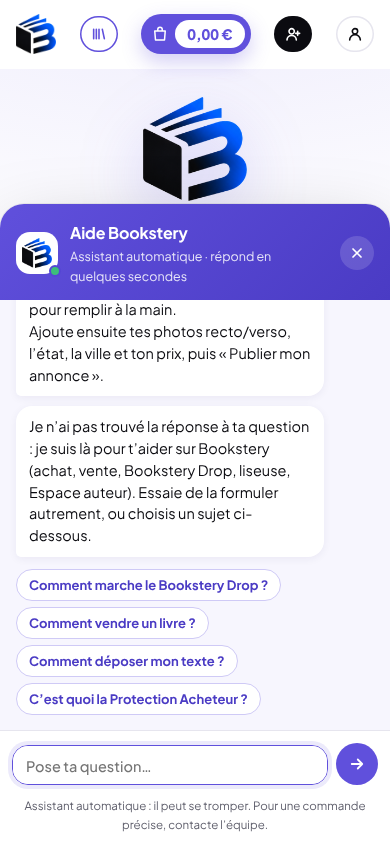
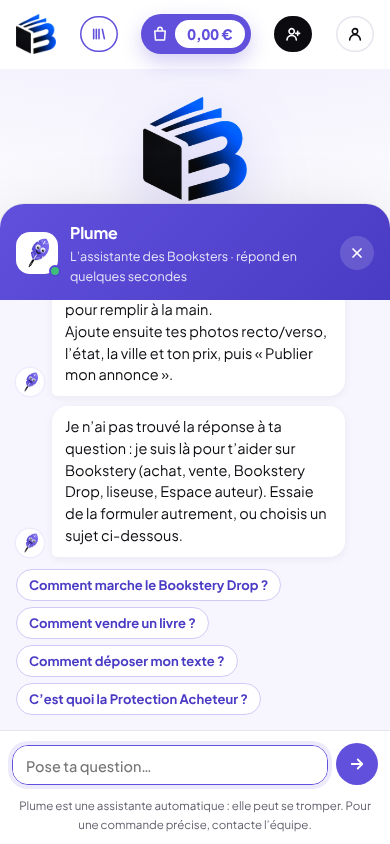
Plume, la mascotte de l'aide (bleu Majorelle, noir, blanc) ; infobulle du panier : Remplir mon panier
Claude-Session: https://claude.ai/code/session_01EPa3evC84KLMU14gb8iTX3

diff --git a/index.html b/index.html
@@ -869,6 +869,28 @@ body.help-hidden .help-fab{opacity:0;pointer-events:none;transform:scale(.8)}
   body.help-open .help-fab{display:none}
 }
 @media print{.help-fab,.help-panel{display:none!important}}
+/* ---------- Plume, la mascotte ---------- */
+.plume{display:block;width:100%;height:100%;overflow:visible}
+.plume .pl-eyes{transform-box:fill-box;transform-origin:center;animation:plBlink 5s infinite}
+@keyframes plBlink{0%,92%,100%{transform:scaleY(1)}95%{transform:scaleY(.1)}}
+.help-fab{background:#fff!important;color:var(--maj)!important;box-shadow:0 14px 30px -8px rgba(96,80,220,.55),0 0 0 3px var(--maj)!important}
+.help-fab:hover{box-shadow:0 18px 36px -8px rgba(96,80,220,.7),0 0 0 3px var(--maj)!important}
+.help-fab .hf-ico{width:46px;height:46px;display:block;animation:plFloat 3.2s ease-in-out infinite}
+.help-fab:hover .hf-ico{animation:plWiggle .6s ease-in-out}
+@keyframes plFloat{0%,100%{transform:translateY(0) rotate(0)}50%{transform:translateY(-3px) rotate(-4deg)}}
+@keyframes plWiggle{0%,100%{transform:rotate(0)}25%{transform:rotate(-12deg)}75%{transform:rotate(10deg)}}
+.help-fab[aria-expanded="true"]{background:var(--maj)!important;color:#fff!important}
+.hp-av{background:#fff}
+.hp-av .plume{width:36px;height:36px}
+.hp-row{display:flex;align-items:flex-end;gap:8px;max-width:92%}
+.hp-row .hp-msg{max-width:none;flex:1;min-width:0}
+.hp-mini{flex:none;width:28px;height:28px;border-radius:50%;background:#fff;box-shadow:0 0 0 1.5px var(--maj-l);display:grid;place-items:center;padding:2px}
+.hp-typing{align-items:center;gap:8px;background:none!important;padding:0!important}
+.hp-ink{display:flex;align-items:center;gap:4px;background:#fff;border-radius:16px;border-bottom-left-radius:5px;padding:10px 13px}
+.hp-ink em{font-style:normal;font-size:12.5px;font-weight:700;color:var(--maj-d);margin-right:4px}
+.hp-mini.writing .plume{animation:plWrite .5s ease-in-out infinite alternate;transform-origin:20% 90%}
+@keyframes plWrite{from{transform:rotate(-8deg) translateX(-1px)}to{transform:rotate(8deg) translateX(1px)}}
+@media(max-width:560px){.help-fab .hf-ico{width:42px;height:42px}}
 @media(prefers-reduced-motion:reduce){*{transition-duration:.01ms!important;animation:none!important;scroll-behavior:auto!important}}
 </style>
 </head>
@@ -882,7 +904,7 @@ body.help-hidden .help-fab{opacity:0;pointer-events:none;transform:scale(.8)}
         <svg width="16" height="16" viewBox="0 0 24 24" fill="none" stroke="currentColor" stroke-width="2.4" stroke-linecap="round" stroke-linejoin="round" aria-hidden="true"><path d="M4 5v14M8 5v14M12 5v14M17 5l3 14"/></svg>
         <span class="sell-txt">Vendre un livre</span>
       </button>
-      <button class="bagbtn tip" id="bagBtn" type="button" data-tip="Remplir mon Bookster Bag" aria-label="Ouvrir mon Bookster Bag, vide, 0,00 €">
+      <button class="bagbtn tip" id="bagBtn" type="button" data-tip="Remplir mon panier" aria-label="Ouvrir mon Bookster Bag, vide, 0,00 €">
         <svg width="18" height="18" viewBox="0 0 24 24" fill="none" stroke="currentColor" stroke-width="2" stroke-linejoin="round" aria-hidden="true"><path d="M5 8h14l-1 12H6L5 8Z"/><path d="M9 8V6a3 3 0 0 1 6 0v2"/></svg>
         <span class="lbl">Bookster Bag</span>
         <span class="amt" id="bagAmt">0,00&nbsp;€</span>
@@ -1399,15 +1421,15 @@ body.help-hidden .help-fab{opacity:0;pointer-events:none;transform:scale(.8)}
 <div class="toast" id="toast" role="status"></div>
 
 <!-- Assistant d'aide -->
-<button class="help-fab" type="button" id="helpFab" data-aide aria-label="Aide Bookstery : poser une question" aria-expanded="false" aria-controls="helpPanel">
-  <svg class="hf-ico" width="26" height="26" viewBox="0 0 24 24" fill="none" stroke="currentColor" stroke-width="2.1" stroke-linecap="round" stroke-linejoin="round" aria-hidden="true"><path d="M21 12a8.5 8.5 0 0 1-12.6 7.4L3 21l1.6-5.1A8.5 8.5 0 1 1 21 12Z"/><path d="M9.6 9.6a2.5 2.5 0 0 1 4.8.9c0 1.6-2.4 2-2.4 3.5"/><path d="M12 17h.01"/></svg>
+<button class="help-fab" type="button" id="helpFab" data-aide aria-label="Plume, l’assistante des Booksters : poser une question" aria-expanded="false" aria-controls="helpPanel">
+  <span class="hf-ico"><svg class="plume" viewBox="0 0 64 64" xmlns="http://www.w3.org/2000/svg" aria-hidden="true">  <defs><linearGradient id="pgFab" x1="0" y1="1" x2="0.6" y2="0"><stop offset="0" stop-color="#4536C0"/><stop offset="1" stop-color="#7D6EF2"/></linearGradient></defs>  <g class="pl-body" transform="rotate(32 32 34)">    <path d="M32 2C45 8 49 20 45 32L41.5 31.5L43.5 35C40 41 36 44.5 32 46C28 44.5 24 41 21 36.5L23.5 33.5L19.5 32C17.5 25 18 19 20.5 14L23 15.5L22 11.5C24.5 7.5 28 4.5 32 2Z" fill="url(#pgFab)"/>    <path d="M45 33L41.5 32.5L43.5 36C40 42 36 45.5 32 47" fill="none" stroke="#0B0B10" stroke-opacity=".16" stroke-width="1.4" stroke-linejoin="round"/>    <path d="M32 7v6M32 36v11" stroke="#fff" stroke-width="1.7" stroke-linecap="round" stroke-opacity=".9"/>    <path d="M34.5 40.5l4.5-3.5M29.5 40.5L25 37M34.5 10.5l3.5-2M29.5 10.5L26 8.5" fill="none" stroke="#fff" stroke-width="1.2" stroke-linecap="round" stroke-opacity=".45"/>    <g class="pl-eyes">      <circle cx="27" cy="22.5" r="4.4" fill="#fff"/><circle cx="37" cy="22.5" r="4.4" fill="#fff"/>      <circle cx="27.8" cy="23.2" r="2.3" fill="#0B0B10"/><circle cx="37.8" cy="23.2" r="2.3" fill="#0B0B10"/>      <circle cx="28.6" cy="22.3" r=".8" fill="#fff"/><circle cx="38.6" cy="22.3" r=".8" fill="#fff"/>    </g>    <path d="M28.2 29.6c2.2 2.2 5.4 2.2 7.6 0" fill="none" stroke="#0B0B10" stroke-width="2" stroke-linecap="round"/>    <path d="M32 47v9.5" stroke="#0B0B10" stroke-width="3.6" stroke-linecap="round"/>    <path d="M32 56.5l-1.4 4.3h2.8z" fill="#0B0B10"/>    <path d="M32 52.5v3.2" stroke="#fff" stroke-width=".9" stroke-linecap="round" stroke-opacity=".8"/>  </g></svg></span>
   <svg class="hf-x" width="22" height="22" viewBox="0 0 24 24" fill="none" stroke="currentColor" stroke-width="2.6" stroke-linecap="round" aria-hidden="true"><path d="M6 6l12 12M18 6 6 18"/></svg>
-  <span class="hf-tip" aria-hidden="true">Besoin d’aide&nbsp;?</span>
+  <span class="hf-tip" aria-hidden="true">Besoin d’aide&nbsp;? Demande à Plume&nbsp;!</span>
 </button>
 <section class="help-panel" id="helpPanel" role="dialog" aria-modal="false" aria-labelledby="helpTitle" hidden>
   <div class="hp-head">
-    <span class="hp-av"><img src="mark.png" alt=""><i aria-hidden="true"></i></span>
-    <div class="hp-id"><b id="helpTitle">Aide Bookstery</b><small id="helpSub">Assistant automatique · répond en quelques secondes</small></div>
+    <span class="hp-av"><svg class="plume" viewBox="0 0 64 64" xmlns="http://www.w3.org/2000/svg" aria-hidden="true">  <defs><linearGradient id="pgAv" x1="0" y1="1" x2="0.6" y2="0"><stop offset="0" stop-color="#4536C0"/><stop offset="1" stop-color="#7D6EF2"/></linearGradient></defs>  <g class="pl-body" transform="rotate(32 32 34)">    <path d="M32 2C45 8 49 20 45 32L41.5 31.5L43.5 35C40 41 36 44.5 32 46C28 44.5 24 41 21 36.5L23.5 33.5L19.5 32C17.5 25 18 19 20.5 14L23 15.5L22 11.5C24.5 7.5 28 4.5 32 2Z" fill="url(#pgAv)"/>    <path d="M45 33L41.5 32.5L43.5 36C40 42 36 45.5 32 47" fill="none" stroke="#0B0B10" stroke-opacity=".16" stroke-width="1.4" stroke-linejoin="round"/>    <path d="M32 7v6M32 36v11" stroke="#fff" stroke-width="1.7" stroke-linecap="round" stroke-opacity=".9"/>    <path d="M34.5 40.5l4.5-3.5M29.5 40.5L25 37M34.5 10.5l3.5-2M29.5 10.5L26 8.5" fill="none" stroke="#fff" stroke-width="1.2" stroke-linecap="round" stroke-opacity=".45"/>    <g class="pl-eyes">      <circle cx="27" cy="22.5" r="4.4" fill="#fff"/><circle cx="37" cy="22.5" r="4.4" fill="#fff"/>      <circle cx="27.8" cy="23.2" r="2.3" fill="#0B0B10"/><circle cx="37.8" cy="23.2" r="2.3" fill="#0B0B10"/>      <circle cx="28.6" cy="22.3" r=".8" fill="#fff"/><circle cx="38.6" cy="22.3" r=".8" fill="#fff"/>    </g>    <path d="M28.2 29.6c2.2 2.2 5.4 2.2 7.6 0" fill="none" stroke="#0B0B10" stroke-width="2" stroke-linecap="round"/>    <path d="M32 47v9.5" stroke="#0B0B10" stroke-width="3.6" stroke-linecap="round"/>    <path d="M32 56.5l-1.4 4.3h2.8z" fill="#0B0B10"/>    <path d="M32 52.5v3.2" stroke="#fff" stroke-width=".9" stroke-linecap="round" stroke-opacity=".8"/>  </g></svg><i aria-hidden="true"></i></span>
+    <div class="hp-id"><b id="helpTitle">Plume</b><small id="helpSub">L’assistante des Booksters · répond en quelques secondes</small></div>
     <button class="hp-x" type="button" id="helpClose" aria-label="Fermer l’aide"><svg width="16" height="16" viewBox="0 0 24 24" fill="none" stroke="currentColor" stroke-width="2.6" stroke-linecap="round"><path d="M6 6l12 12M18 6 6 18"/></svg></button>
   </div>
   <div class="hp-body" id="helpBody" aria-live="polite"></div>
@@ -1416,7 +1438,7 @@ body.help-hidden .help-fab{opacity:0;pointer-events:none;transform:scale(.8)}
     <textarea id="helpInput" rows="1" maxlength="500" placeholder="Pose ta question…"></textarea>
     <button type="submit" id="helpSend" aria-label="Envoyer"><svg width="18" height="18" viewBox="0 0 24 24" fill="none" stroke="currentColor" stroke-width="2.4" stroke-linecap="round" stroke-linejoin="round"><path d="M5 12h14M13 6l6 6-6 6"/></svg></button>
   </form>
-  <p class="hp-note">Assistant automatique&nbsp;: il peut se tromper. Pour une commande précise, contacte l’équipe.</p>
+  <p class="hp-note">Plume est une assistante automatique&nbsp;: elle peut se tromper. Pour une commande précise, contacte l’équipe.</p>
 </section>
 
 <script src="https://cdn.jsdelivr.net/npm/@supabase/supabase-js@2"></script>
@@ -2831,14 +2853,16 @@ function aideLocal(q){var w=aideNorm(q).split(" ").filter(function(x){return(x.l
     w.forEach(function(x){if(k.indexOf(x)>-1)sc+=3;else if(x.length>=5&&k.some(function(y){return y.length>=5&&(y.indexOf(x.slice(0,5))===0||x.indexOf(y.slice(0,5))===0)}))sc+=2});
     if(sc>bs){bs=sc;best=f}});
   return bs>=2?best.a:"Je n’ai pas trouvé la réponse à ta question : je suis là pour t’aider sur Bookstery (achat, vente, Bookstery Drop, liseuse, Espace auteur). Essaie de la formuler autrement, ou choisis un sujet ci-dessous."+(CFG.SUPPORT_EMAIL?" Tu peux aussi écrire à l’équipe : "+CFG.SUPPORT_EMAIL+".":"")}
+var PLUME_SVG='<svg class="plume" viewBox="0 0 64 64" xmlns="http://www.w3.org/2000/svg" aria-hidden="true">  <defs><linearGradient id="pgID" x1="0" y1="1" x2="0.6" y2="0"><stop offset="0" stop-color="#4536C0"/><stop offset="1" stop-color="#7D6EF2"/></linearGradient></defs>  <g class="pl-body" transform="rotate(32 32 34)">    <path d="M32 2C45 8 49 20 45 32L41.5 31.5L43.5 35C40 41 36 44.5 32 46C28 44.5 24 41 21 36.5L23.5 33.5L19.5 32C17.5 25 18 19 20.5 14L23 15.5L22 11.5C24.5 7.5 28 4.5 32 2Z" fill="url(#pgID)"/>    <path d="M45 33L41.5 32.5L43.5 36C40 42 36 45.5 32 47" fill="none" stroke="#0B0B10" stroke-opacity=".16" stroke-width="1.4" stroke-linejoin="round"/>    <path d="M32 7v6M32 36v11" stroke="#fff" stroke-width="1.7" stroke-linecap="round" stroke-opacity=".9"/>    <path d="M34.5 40.5l4.5-3.5M29.5 40.5L25 37M34.5 10.5l3.5-2M29.5 10.5L26 8.5" fill="none" stroke="#fff" stroke-width="1.2" stroke-linecap="round" stroke-opacity=".45"/>    <g class="pl-eyes">      <circle cx="27" cy="22.5" r="4.4" fill="#fff"/><circle cx="37" cy="22.5" r="4.4" fill="#fff"/>      <circle cx="27.8" cy="23.2" r="2.3" fill="#0B0B10"/><circle cx="37.8" cy="23.2" r="2.3" fill="#0B0B10"/>      <circle cx="28.6" cy="22.3" r=".8" fill="#fff"/><circle cx="38.6" cy="22.3" r=".8" fill="#fff"/>    </g>    <path d="M28.2 29.6c2.2 2.2 5.4 2.2 7.6 0" fill="none" stroke="#0B0B10" stroke-width="2" stroke-linecap="round"/>    <path d="M32 47v9.5" stroke="#0B0B10" stroke-width="3.6" stroke-linecap="round"/>    <path d="M32 56.5l-1.4 4.3h2.8z" fill="#0B0B10"/>    <path d="M32 52.5v3.2" stroke="#fff" stroke-width=".9" stroke-linecap="round" stroke-opacity=".8"/>  </g></svg>';var plumeN=0;function plumeSVG(){plumeN++;return PLUME_SVG.replace(/ID/g,'m'+plumeN)}
 function aideFormat(t){return esc(t).replace(/\*\*(.+?)\*\*/g,"<b>$1</b>")}
-function aideAdd(role,text,sugg){var b=$("helpBody"),d=document.createElement("div");d.className="hp-msg "+(role==="user"?"me":"bot");d.innerHTML=aideFormat(text);b.appendChild(d);
+function aideAdd(role,text,sugg){var b=$("helpBody"),d=document.createElement("div");d.className="hp-msg "+(role==="user"?"me":"bot");d.innerHTML=aideFormat(text);
+  if(role!=="user"){var row=document.createElement("div");row.className="hp-row";row.innerHTML='<span class="hp-mini">'+plumeSVG()+'</span>';row.appendChild(d);b.appendChild(row)}else b.appendChild(d);
   if(sugg){var s=document.createElement("div");s.className="hp-sugg";s.innerHTML=sugg.map(function(x){return'<button type="button" data-ask="'+esc(x)+'">'+esc(x)+'</button>'}).join("");b.appendChild(s)}
   b.scrollTop=b.scrollHeight}
-function aideTyping(on){var t=$("helpBody").querySelector(".hp-typing");if(on&&!t){t=document.createElement("div");t.className="hp-typing";t.setAttribute("aria-label","L’assistant écrit");t.innerHTML="<i></i><i></i><i></i>";$("helpBody").appendChild(t);$("helpBody").scrollTop=$("helpBody").scrollHeight}else if(!on&&t)t.remove()}
+function aideTyping(on){var t=$("helpBody").querySelector(".hp-typing");if(on&&!t){t=document.createElement("div");t.className="hp-typing";t.setAttribute("aria-label","Plume écrit");t.innerHTML='<span class="hp-mini writing">'+plumeSVG()+'</span><span class="hp-ink"><em>Plume écrit</em><i></i><i></i><i></i></span>';$("helpBody").appendChild(t);$("helpBody").scrollTop=$("helpBody").scrollHeight}else if(!on&&t)t.remove()}
 var aideStarted=false;
 function openAide(){$("helpPanel").hidden=false;$("helpFab").setAttribute("aria-expanded","true");document.body.classList.add("help-open");
-  if(!aideStarted){aideStarted=true;aideAdd("bot","Bonjour ! 👋 Je suis l’assistant de Bookstery. Pose-moi ta question sur l’achat, la vente, le Bookstery Drop, la liseuse ou l’Espace auteur.",AIDE_SUGG)}
+  if(!aideStarted){aideStarted=true;aideAdd("bot","Salut, moi c’est **Plume**, l’assistante des Booksters ! ✍ Pose-moi ta question sur l’achat, la vente, le Bookstery Drop, la liseuse ou l’Espace auteur.",AIDE_SUGG)}
   setTimeout(function(){$("helpInput").focus()},80)}
 function closeAide(){$("helpPanel").hidden=true;$("helpFab").setAttribute("aria-expanded","false");document.body.classList.remove("help-open");$("helpFab").focus()}
 async function aideAsk(q){q=String(q||"").trim();if(!q||aideBusy)return;

diff --git a/supabase/functions/aide/index.ts b/supabase/functions/aide/index.ts
@@ -1,4 +1,4 @@
-// Bookstery : assistant d'aide (bulle « ? » en bas à droite du site).
+// Bookstery : Plume, l'assistante d'aide (bulle en bas à droite du site).
 //
 // Répond aux questions des visiteurs uniquement à partir de la FAQ Bookstery (faq.ts).
 // Pas d'accès aux comptes ni aux commandes : pour un cas précis, il oriente vers l'équipe.
@@ -15,7 +15,7 @@ const SUPPORT = Deno.env.get("SUPPORT_EMAIL") ?? "";
 const MAX_MESSAGES = 12, MAX_CARS = 600;
 const LIMITE = 20, FENETRE_MS = 10 * 60 * 1000; // 20 questions / 10 min par adresse IP (au mieux, par instance)
 
-const SYSTEME = `Tu es l'assistant d'aide de Bookstery, sur son site web. Tu réponds aux visiteurs en français, en les tutoyant, sur un ton chaleureux, communautaire et professionnel.
+const SYSTEME = `Tu es Plume, l'assistante des Booksters : la mascotte de Bookstery (une petite plume d'écriture), qui aide les visiteurs sur le site. Si on te demande qui tu es, présente-toi ainsi. Tu réponds aux visiteurs en français, en les tutoyant, sur un ton chaleureux, communautaire et professionnel.
 
 Règles :
 - Réponds uniquement à partir de la base de connaissances ci-dessous. N'invente jamais une règle, un prix, un délai, une politique de remboursement ou une fonctionnalité qui n'y figure pas. Si la réponse n'y est pas, dis-le simplement et propose de contacter l'équipe Bookstery${SUPPORT ? ` (${SUPPORT})` : ""}.
